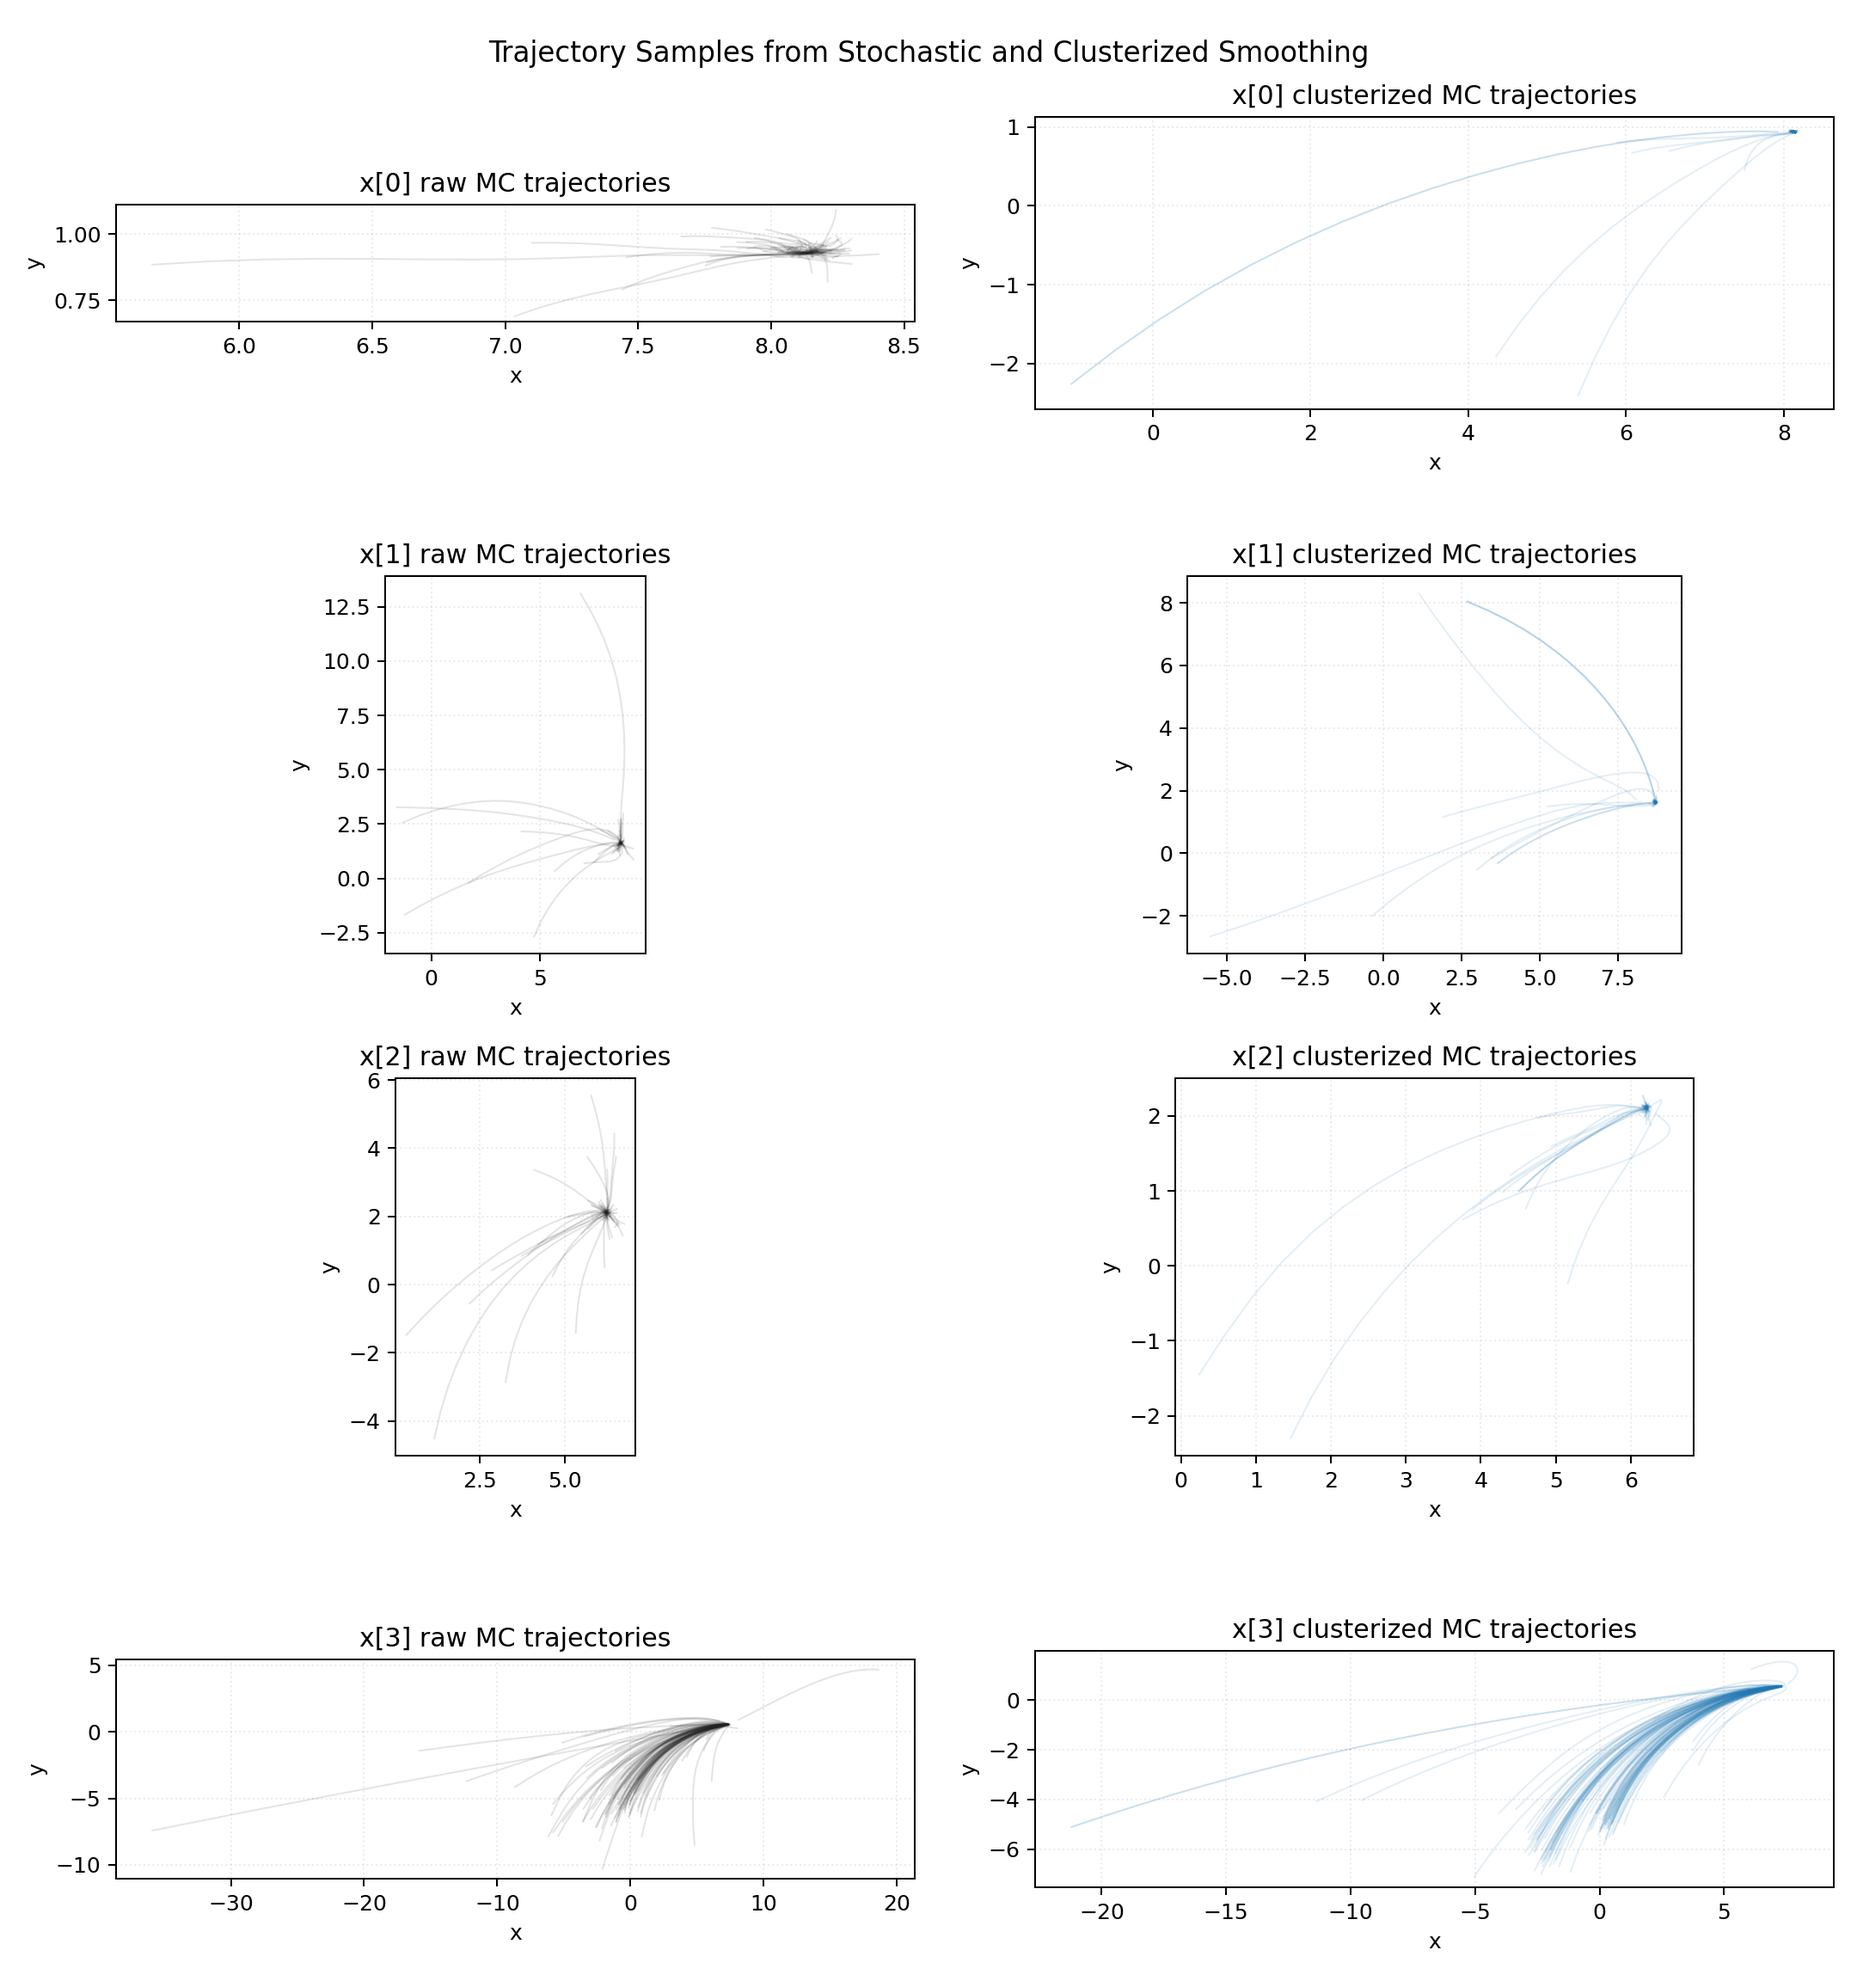
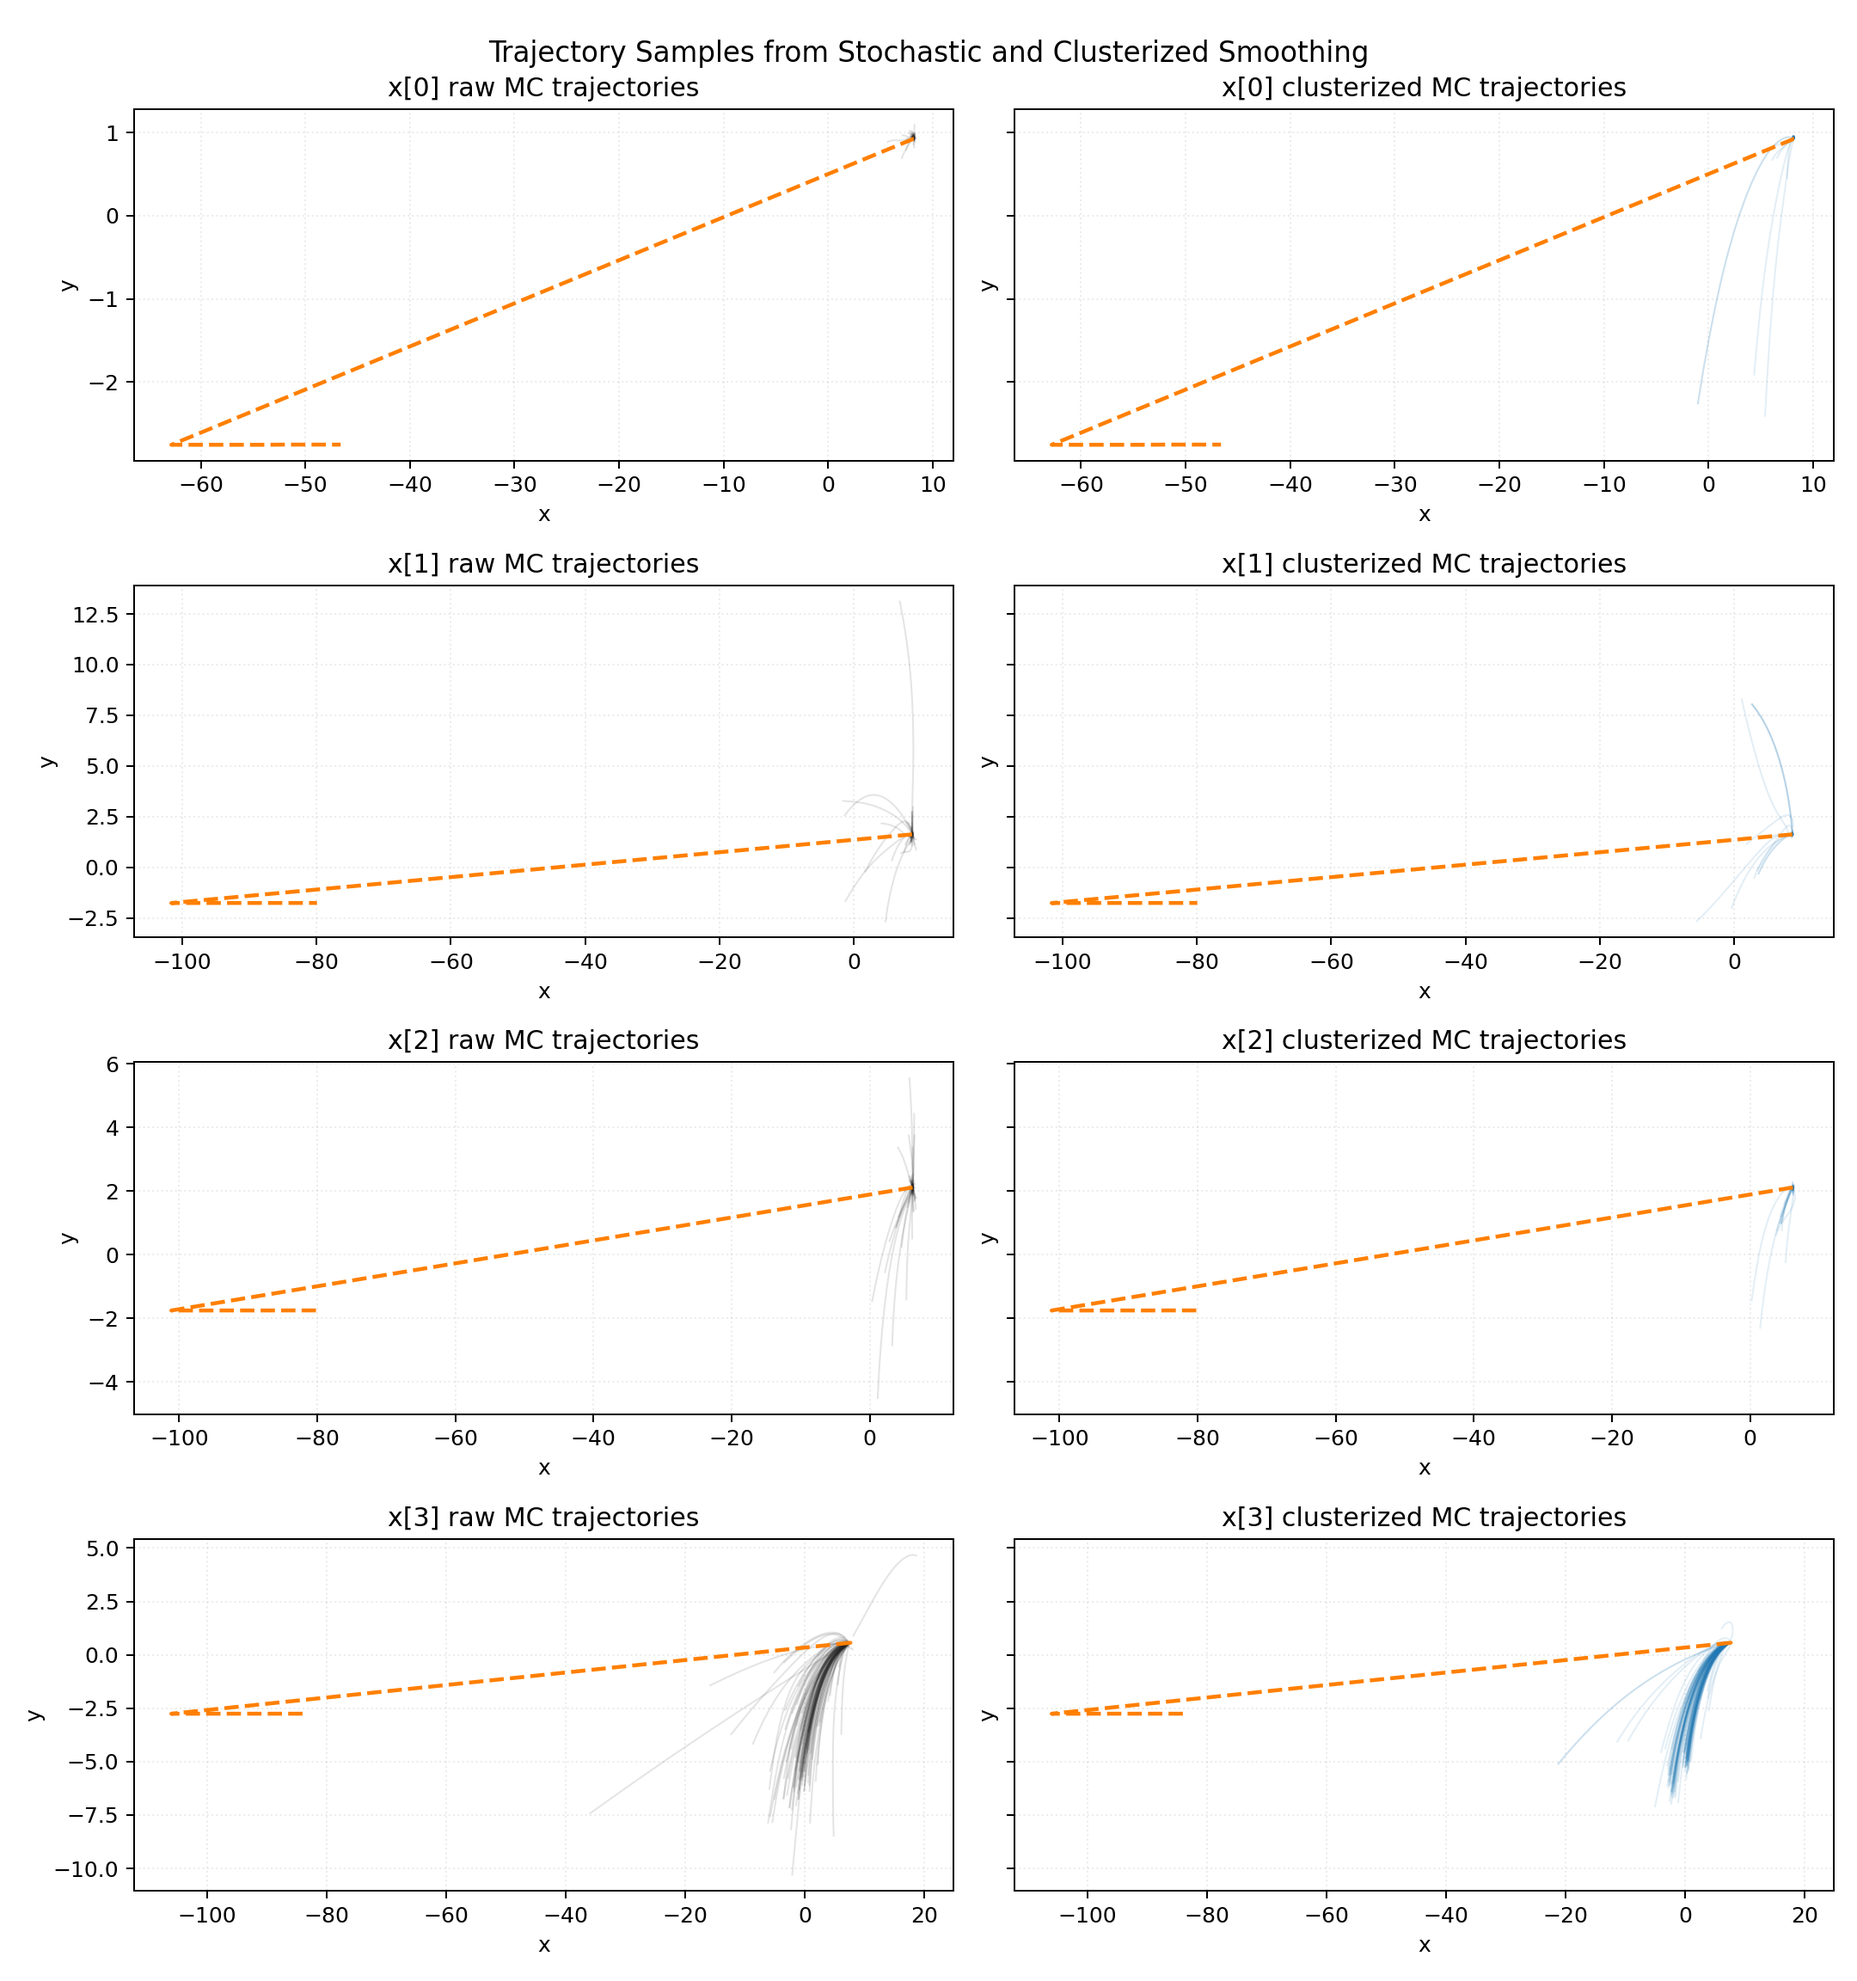
refactor plotting

diff --git a/experiments/plotting.py b/experiments/plotting.py
@@ -98,46 +98,51 @@ def plot_experiment_results(
 	return [fig1_path]
 
 
-def _reshape_trajectory_samples(samples: torch.Tensor, num_timesteps: int = 20) -> np.ndarray:
+def _reshape_trajectory_samples(samples: torch.Tensor) -> np.ndarray:
 	arr = _to_numpy(samples)
 	if arr.ndim != 3:
 		raise ValueError("samples must have shape (nx, num_samples, 2 * num_timesteps)")
 
 	nx, num_samples, flat_dim = arr.shape
-	expected_dim = 2 * num_timesteps
-	if flat_dim != expected_dim:
+	if flat_dim % 2 != 0:
 		raise ValueError(
-			f"Expected last dimension {expected_dim}, got {flat_dim}. "
-			"Pass the correct num_timesteps."
+			f"Expected an even last dimension encoding [x1, y1, x2, y2, ...], got {flat_dim}."
 		)
+	num_timesteps = flat_dim // 2
 
 	return arr.reshape(nx, num_samples, num_timesteps, 2)
 
 
 def plot_trajectory_samples(
+	x: torch.Tensor,
 	mc_samples: torch.Tensor,
 	clusterized_mc_samples: torch.Tensor,
 	output_dir: Path,
-	num_timesteps: int = 20,
 ) -> list[Path]:
 	"""Plot trajectory samples for each x point.
 
 	Args:
+		x: Tensor (nx, 2 * num_input_timesteps) for dashed input trajectory overlay.
 		mc_samples: Tensor (nx, num_samples, 2 * num_timesteps).
 		clusterized_mc_samples: Tensor (nx, num_samples, 2 * num_timesteps).
 		output_dir: Folder to save charts.
-		num_timesteps: Number of trajectory timesteps encoded in the last dimension.
 	"""
 	output_dir.mkdir(parents=True, exist_ok=True)
 
-	raw = _reshape_trajectory_samples(mc_samples, num_timesteps=num_timesteps)
-	clusterized = _reshape_trajectory_samples(clusterized_mc_samples, num_timesteps=num_timesteps)
+	raw = _reshape_trajectory_samples(mc_samples)
+	clusterized = _reshape_trajectory_samples(clusterized_mc_samples)
+	x_np = _to_numpy(x)
+	if x_np.ndim != 2 or x_np.shape[1] % 2 != 0:
+		raise ValueError("x must have shape (nx, 2 * num_input_timesteps)")
+	x_traj = x_np.reshape(x_np.shape[0], x_np.shape[1] // 2, 2)
 
 	if raw.shape != clusterized.shape:
 		raise ValueError("mc_samples and clusterized_mc_samples must have identical shapes")
+	if raw.shape[0] != x_traj.shape[0]:
+		raise ValueError("x and trajectory samples must have the same first dimension")
 
 	nx, num_samples, _, _ = raw.shape
-	fig, axes = plt.subplots(nx, 2, figsize=(12, 3.2 * nx), sharex=False, sharey=False)
+	fig, axes = plt.subplots(nx, 2, figsize=(12, 3.2 * nx), sharex="row", sharey="row")
 	if nx == 1:
 		axes = np.array([axes])
 
@@ -152,6 +157,20 @@ def plot_trajectory_samples(
 			traj_cluster = clusterized[i, j]
 			ax_cluster.plot(traj_cluster[:, 0], traj_cluster[:, 1], color="#1F78B4", alpha=0.12, linewidth=0.8)
 
+		xi = x_traj[i]
+		ax_raw.plot(xi[:, 0], xi[:, 1], color="#FF7F00", linestyle="--", linewidth=1.8)
+		ax_cluster.plot(xi[:, 0], xi[:, 1], color="#FF7F00", linestyle="--", linewidth=1.8)
+
+		all_x = np.concatenate((raw[i, :, :, 0].reshape(-1), clusterized[i, :, :, 0].reshape(-1), xi[:, 0]))
+		all_y = np.concatenate((raw[i, :, :, 1].reshape(-1), clusterized[i, :, :, 1].reshape(-1), xi[:, 1]))
+		x_min, x_max = np.min(all_x), np.max(all_x)
+		y_min, y_max = np.min(all_y), np.max(all_y)
+		x_pad = max((x_max - x_min) * 0.05, 1e-6)
+		y_pad = max((y_max - y_min) * 0.05, 1e-6)
+		for ax in (ax_raw, ax_cluster):
+			ax.set_xlim(x_min - x_pad, x_max + x_pad)
+			ax.set_ylim(y_min - y_pad, y_max + y_pad)
+
 		ax_raw.set_title(f"x[{i}] raw MC trajectories")
 		ax_cluster.set_title(f"x[{i}] clusterized MC trajectories")
 
@@ -159,7 +178,6 @@ def plot_trajectory_samples(
 			ax.set_xlabel("x")
 			ax.set_ylabel("y")
 			ax.grid(alpha=0.25, linestyle=":")
-			ax.set_aspect("equal", adjustable="box")
 
 	fig.suptitle("Trajectory Samples from Stochastic and Clusterized Smoothing", fontsize=13)
 	fig.tight_layout()

diff --git a/experiments/trajflow_experiment.py b/experiments/trajflow_experiment.py
@@ -77,10 +77,10 @@ def main():
     clusterized_mc_samples = smoother.monte_carlo(num_simulations=100)
 
     chart_paths = plot_trajectory_samples(
+        x=x,
         mc_samples=mc_samples,
         clusterized_mc_samples=clusterized_mc_samples,
         output_dir=ROOT / "outputs",
-        num_timesteps=20,
     )
     
 
